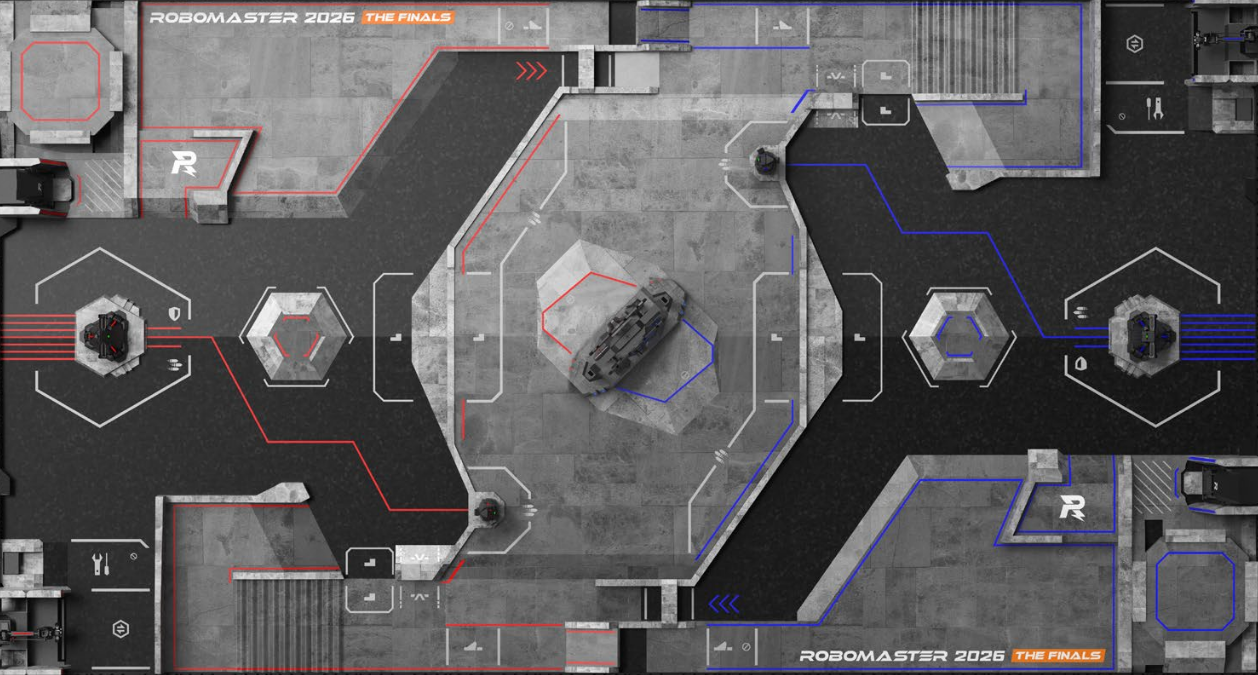
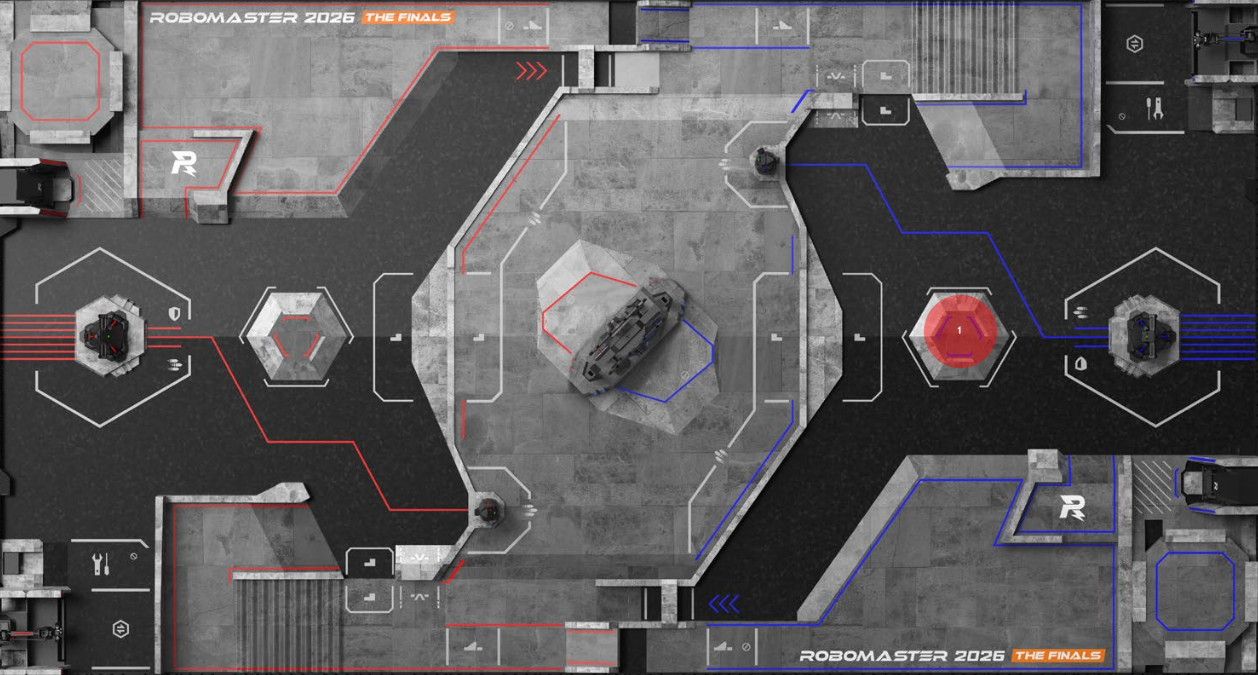
解决小问题

Changed region(s): [[0.713, 0.4356, 0.806, 0.56]]

diff --git a/communication/Receiver.py b/communication/Receiver.py
@@ -37,8 +37,8 @@ class Receiver:
         self.state_pub = None
         self.state_seq = 0
         self.receiver_state = {
-            "is_activating_double_effect": False,
-            "my_health": [100, 100, 100, 100, 100, 0, 1500, 5000],
+            "enemy_is_activating_double_effect": False,
+            "my_health": [100, 100, 100, 100, 100, 0, 1500, 5000, 1500, 5000],
             "mark_progress": [0, 0, 0, 0, 0, 0],
             "have_double_effect_times": 0,
             "time_left": -1,
@@ -321,8 +321,8 @@ bit 9-15：保留
         # data是小端格式的
         dart_info_value = struct.unpack('<H', data[1:3])[0]
 
-        # 提取第 5-7 位的值
-        dart_target = (dart_info_value >> 5) & 0x03
+        # 提取第 6-8 位的值
+        dart_target = (dart_info_value >> 6) & 0x03
 
         self.logger.log(f"Dart target: {dart_target}")
         self.receiver_state["dart_target"] = int(dart_target)
@@ -348,8 +348,8 @@ bit 9-15：保留
 
     # 血量信息
     def parse_robot_status(self, data):
-        # 8 个 uint16_t：英雄、工程、步兵3、步兵4、保留、哨兵、前哨站、基地
-        hp_list = struct.unpack('<8H', data[:16])
+        # 8 个 uint16_t：英雄、工程、步兵3、步兵4、己方全队重伤害和对面总伤害之差、哨兵、前哨站、基地，对方前哨站，对方基地
+        hp_list = struct.unpack('<8H', data[:20])
         
         hp_values = [int(v) for v in hp_list]
         self.receiver_state["my_health"] = hp_values
@@ -390,9 +390,9 @@ bit 9-15：保留
         double_effect_chance = radar_info & 0x03
 
         # 提取位 2 作为双倍易伤激活状态
-        is_double_effect_active = (radar_info >> 2) & 0x01
+        enemy_is_double_effect_active = (radar_info >> 2) & 0x01
 
-        self.receiver_state["is_activating_double_effect"] = bool(is_double_effect_active)
+        self.receiver_state["enemy_is_activating_double_effect"] = bool(enemy_is_double_effect_active)
         self.receiver_state["have_double_effect_times"] = int(double_effect_chance)
 
         self.logger.log(f"Double effect chance: {double_effect_chance}, is double effect active: {is_double_effect_active}")
@@ -400,11 +400,11 @@ bit 9-15：保留
             "double_effect",
             {
                 "have_double_effect_times": int(double_effect_chance),
-                "is_activating_double_effect": bool(is_double_effect_active),
+                "is_activating_double_effect": bool(enemy_is_double_effect_active),
             },
         )
 
-        return double_effect_chance, is_double_effect_active
+        return double_effect_chance, enemy_is_double_effect_active
 
 
     def parse_interferance_status(self, data):

diff --git a/26_main.py b/26_main.py
@@ -156,7 +156,7 @@ def add_line(draw_payload, p1, p2, color=(0, 255, 122), thickness=2):
 
 
 if __name__ == '__main__':
-    video_path = "/root/rm/radar-detect/data/captail.mp4"  # 请改为/path/to/video.avi
+    video_path = "/root/rm/radar-detect/data/video.mp4"  # 请改为/path/to/video.avi
     detector_config_path = "./configs/detector_config.yaml"
     binocular_camera_cfg_path = "./configs/bin_cam_config.yaml"
     main_config_path = "./configs/main_config.yaml"

diff --git a/detect/Detector.py b/detect/Detector.py
@@ -13,7 +13,7 @@ import rospy
 from std_msgs.msg import String
 
 MAIN_CONFIG_PATH = "./configs/main_config.yaml"
-VIDEO_PATH = "/root/rm/radar-detect/data/shifan.mp4"
+VIDEO_PATH = "/root/rm/radar-detect/data/video.mp4"
 DETECTOR_CONFIG_PATH = "./configs/detector_config.yaml"
 CAMERA_CONFIG_PATH = "./configs/bin_cam_config.yaml"
 CAMERA_NAME = "new_cam"

diff --git a/Lidar/Converter.py b/Lidar/Converter.py
@@ -170,7 +170,7 @@ class Converter:
         height = self.vision_locator.get_height(camera_point)
         [x, y] = self.vision_locator.parser(camera_point)
         y += 15 # 平移坐标系
-        return [x, y, height + 0.15, t]
+        return [x, y, height + self.vision_locator.armor_height, t]
 
     def detection_main(self, box,t):
         '''
